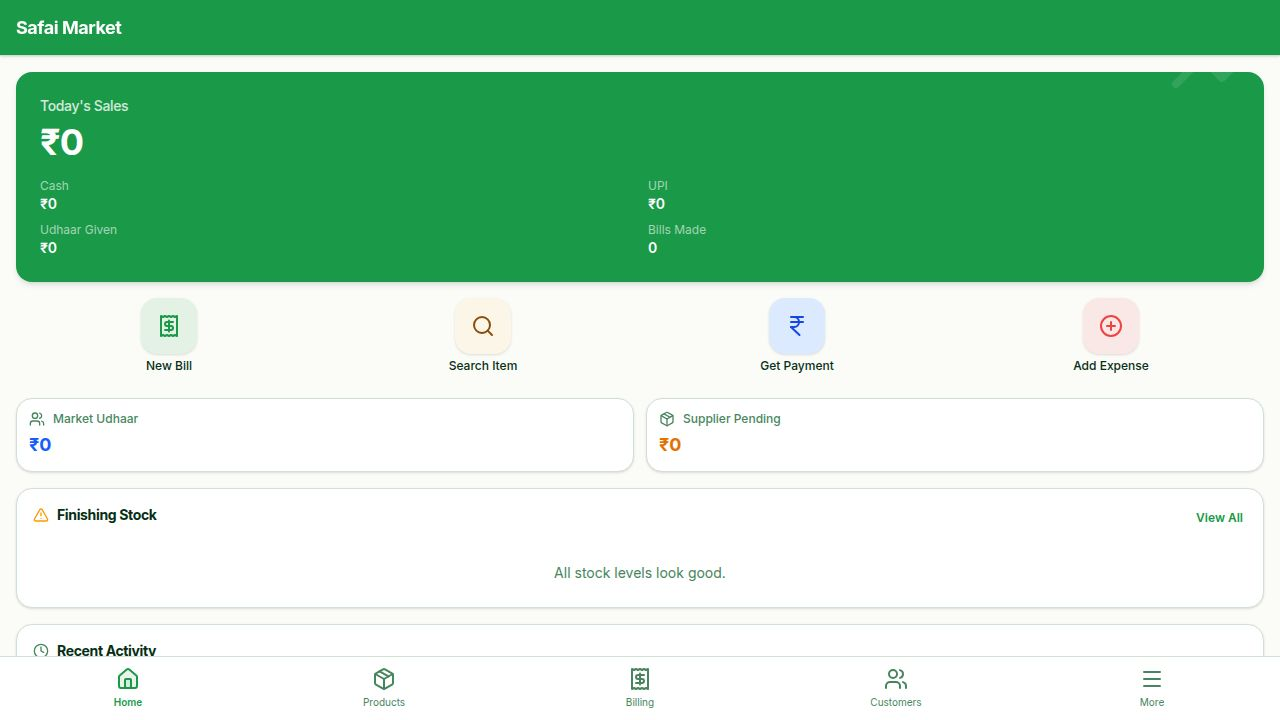
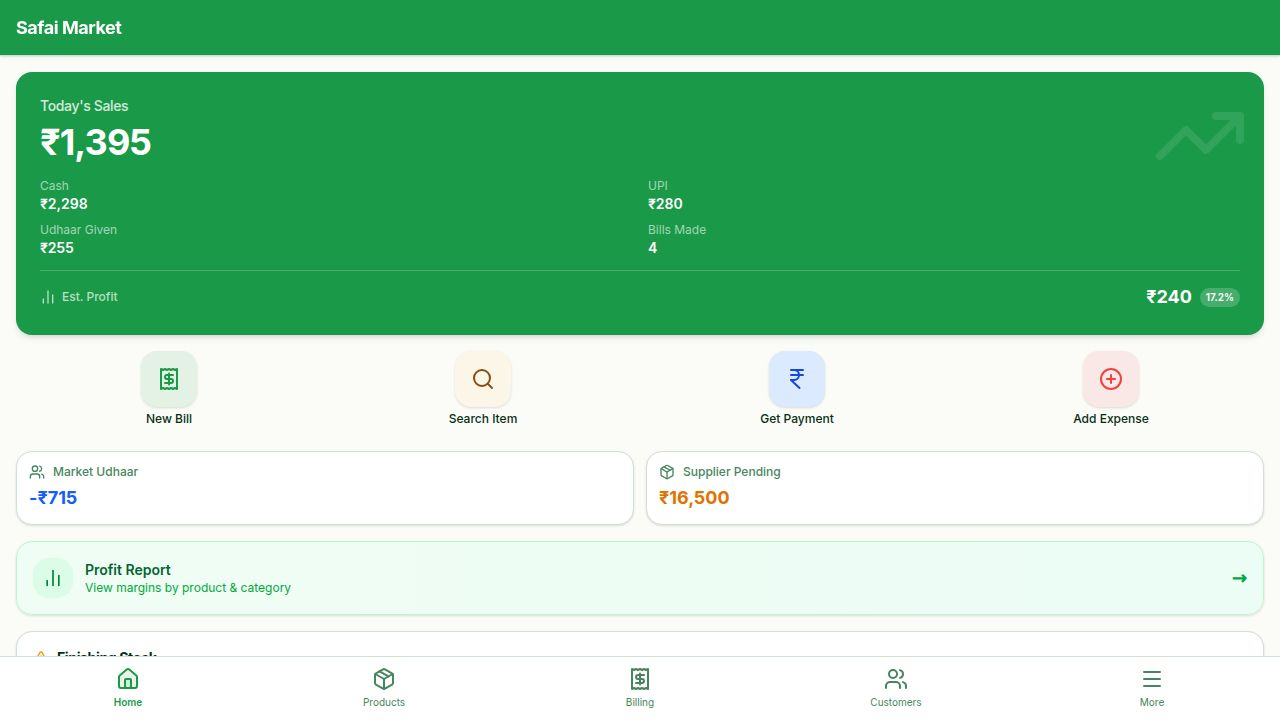
Update application ports and fix frontend errors for stability
Adjusted API server from port 8080 to 3001 and the frontend from 22669 to 5173 in artifact.toml and vite.config.ts. Removed unused 'useLocation' import from profit/index.tsx.

Replit-Commit-Author: Agent
Replit-Commit-Session-Id: 099dad0c-a2d5-4e2b-bd0f-655cc4224d3e
Replit-Commit-Checkpoint-Type: full_checkpoint
Replit-Commit-Event-Id: 1c6dd355-3ce3-47d6-990b-b29e1c9d839a
Replit-Commit-Screenshot-Url: https://storage.googleapis.com/screenshot-production-us-central1/76d15916-bcdb-4fca-abe2-622b138536ac/099dad0c-a2d5-4e2b-bd0f-655cc4224d3e/88eWPbg
Replit-Helium-Checkpoint-Created: true

diff --git a/artifacts/safai-market/vite.config.ts b/artifacts/safai-market/vite.config.ts
@@ -68,7 +68,7 @@ export default defineConfig({
     },
     proxy: {
       "/api": {
-        target: "http://localhost:8080",
+        target: "http://localhost:3001",
         changeOrigin: true,
       },
     },

diff --git a/artifacts/safai-market/src/pages/profit/index.tsx b/artifacts/safai-market/src/pages/profit/index.tsx
@@ -36,7 +36,6 @@ function MiniBar({ value, max, positive }: { value: number; max: number; positiv
 }
 
 export default function ProfitReports() {
-  const [, setLocation] = useLocation();
   const [period, setPeriod] = useState<Period>("30");
   const [tab, setTab] = useState<"overview" | "products" | "categories">("overview");
 